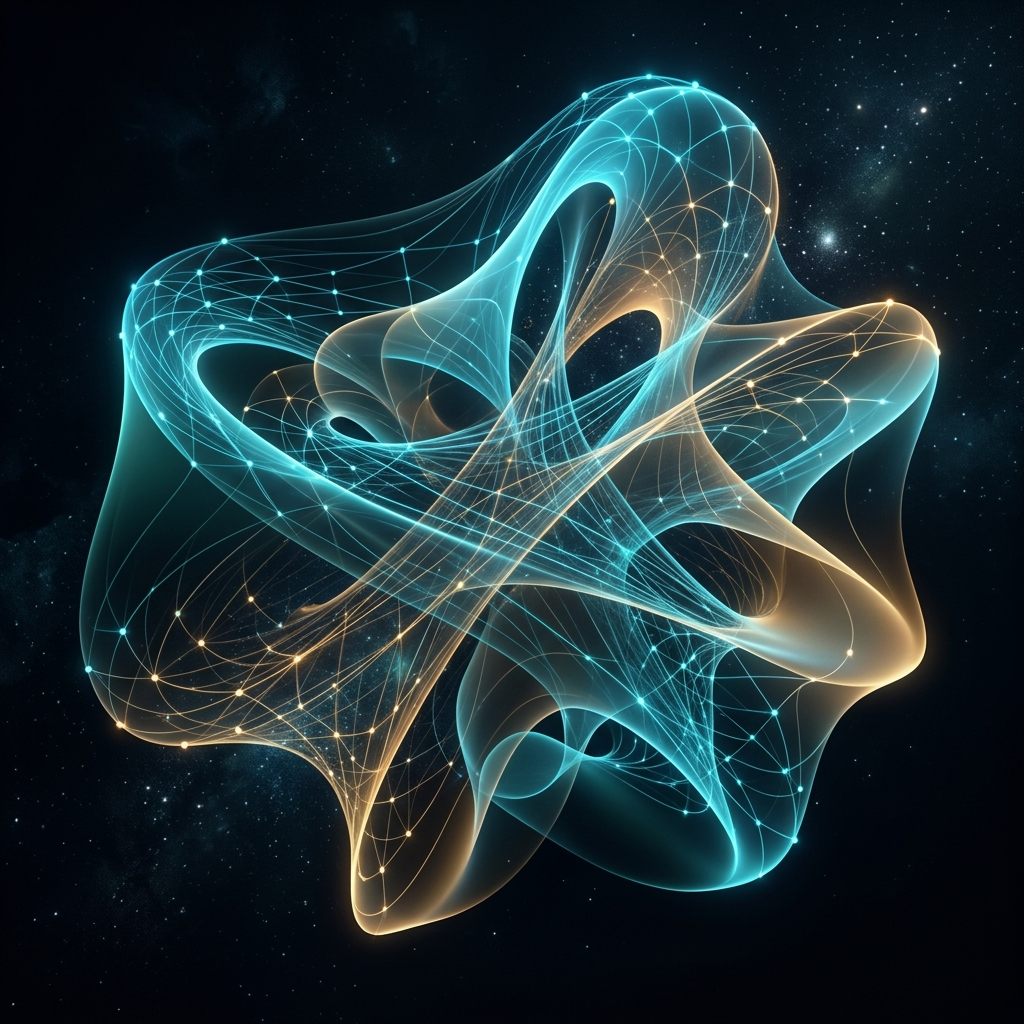
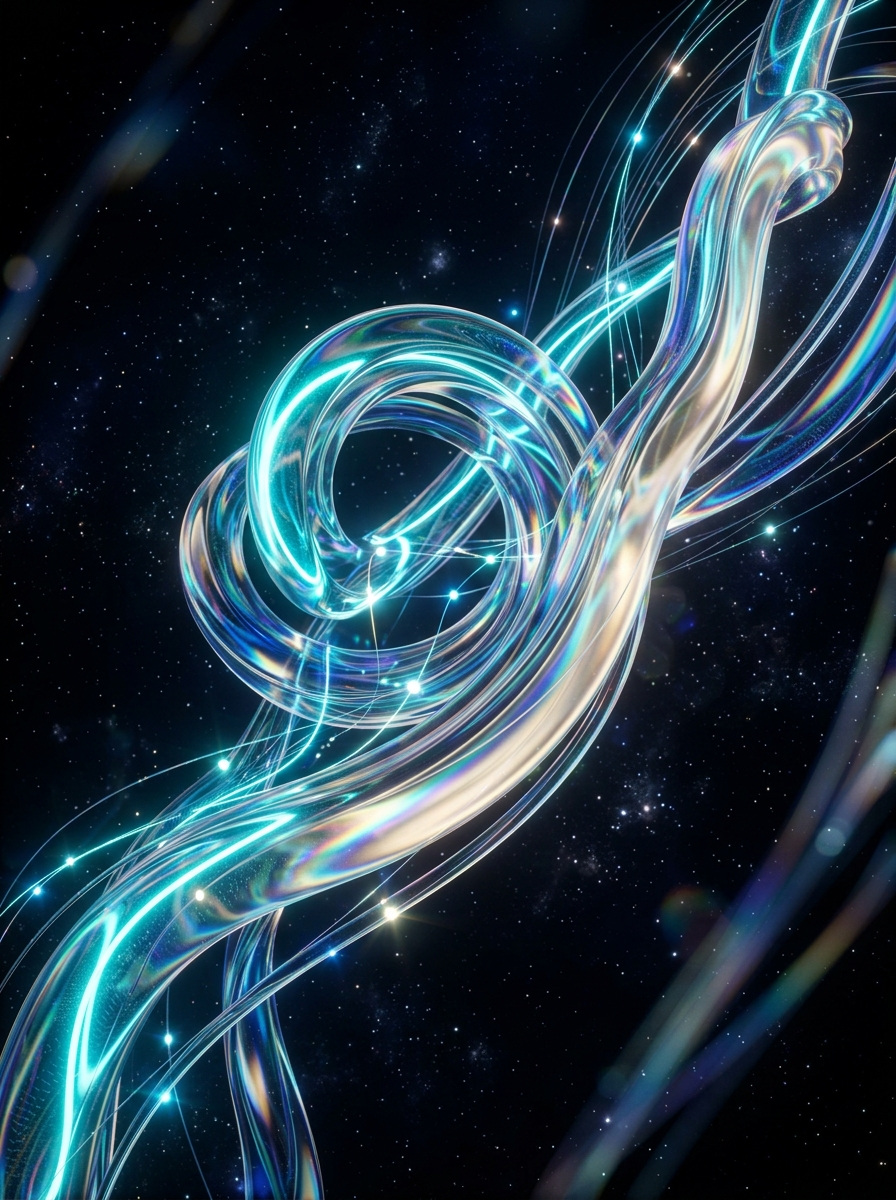
style(auth): update login and registration artwork with high-fidelity quantum crystalline visuals

diff --git a/Frontend/src/app/(auth)/login/page.tsx b/Frontend/src/app/(auth)/login/page.tsx
@@ -238,13 +238,13 @@ export default function LoginPage() {
         >
           <motion.img
             src="/images/auth-manifold.jpg"
-            alt="Quantum Manifold Coherence"
+            alt="Quantum Crystalline Manifold"
             animate={{ scale: [1, 1.04, 1], rotate: [0, 0.4, 0] }}
-            transition={{ duration: 16, repeat: Infinity, ease: "easeInOut" }}
-            className="absolute inset-0 w-full h-full object-cover object-center opacity-85"
+            transition={{ duration: 18, repeat: Infinity, ease: "easeInOut" }}
+            className="absolute inset-0 w-full h-full object-cover object-center opacity-90"
           />
           
-          <div className="absolute inset-0 bg-gradient-to-t from-ink/90 via-ink/30 to-ink/40 pointer-events-none" />
+          <div className="absolute inset-0 bg-gradient-to-t from-ink/90 via-ink/20 to-ink/30 pointer-events-none" />
 
           {/* Top Label */}
           <div className="relative z-10">

diff --git a/Frontend/src/app/(auth)/register/page.tsx b/Frontend/src/app/(auth)/register/page.tsx
@@ -517,10 +517,10 @@ export default function RegisterPage() {
             alt="Quantum Topological Coherence"
             animate={{ scale: [1, 1.04, 1], rotate: [0, -0.4, 0] }}
             transition={{ duration: 18, repeat: Infinity, ease: "easeInOut" }}
-            className="absolute inset-0 w-full h-full object-cover object-center opacity-85"
+            className="absolute inset-0 w-full h-full object-cover object-center opacity-90"
           />
           
-          <div className="absolute inset-0 bg-gradient-to-t from-ink/90 via-ink/30 to-ink/40 pointer-events-none" />
+          <div className="absolute inset-0 bg-gradient-to-t from-ink/90 via-ink/20 to-ink/30 pointer-events-none" />
 
           {/* Top Label */}
           <div className="relative z-10">
